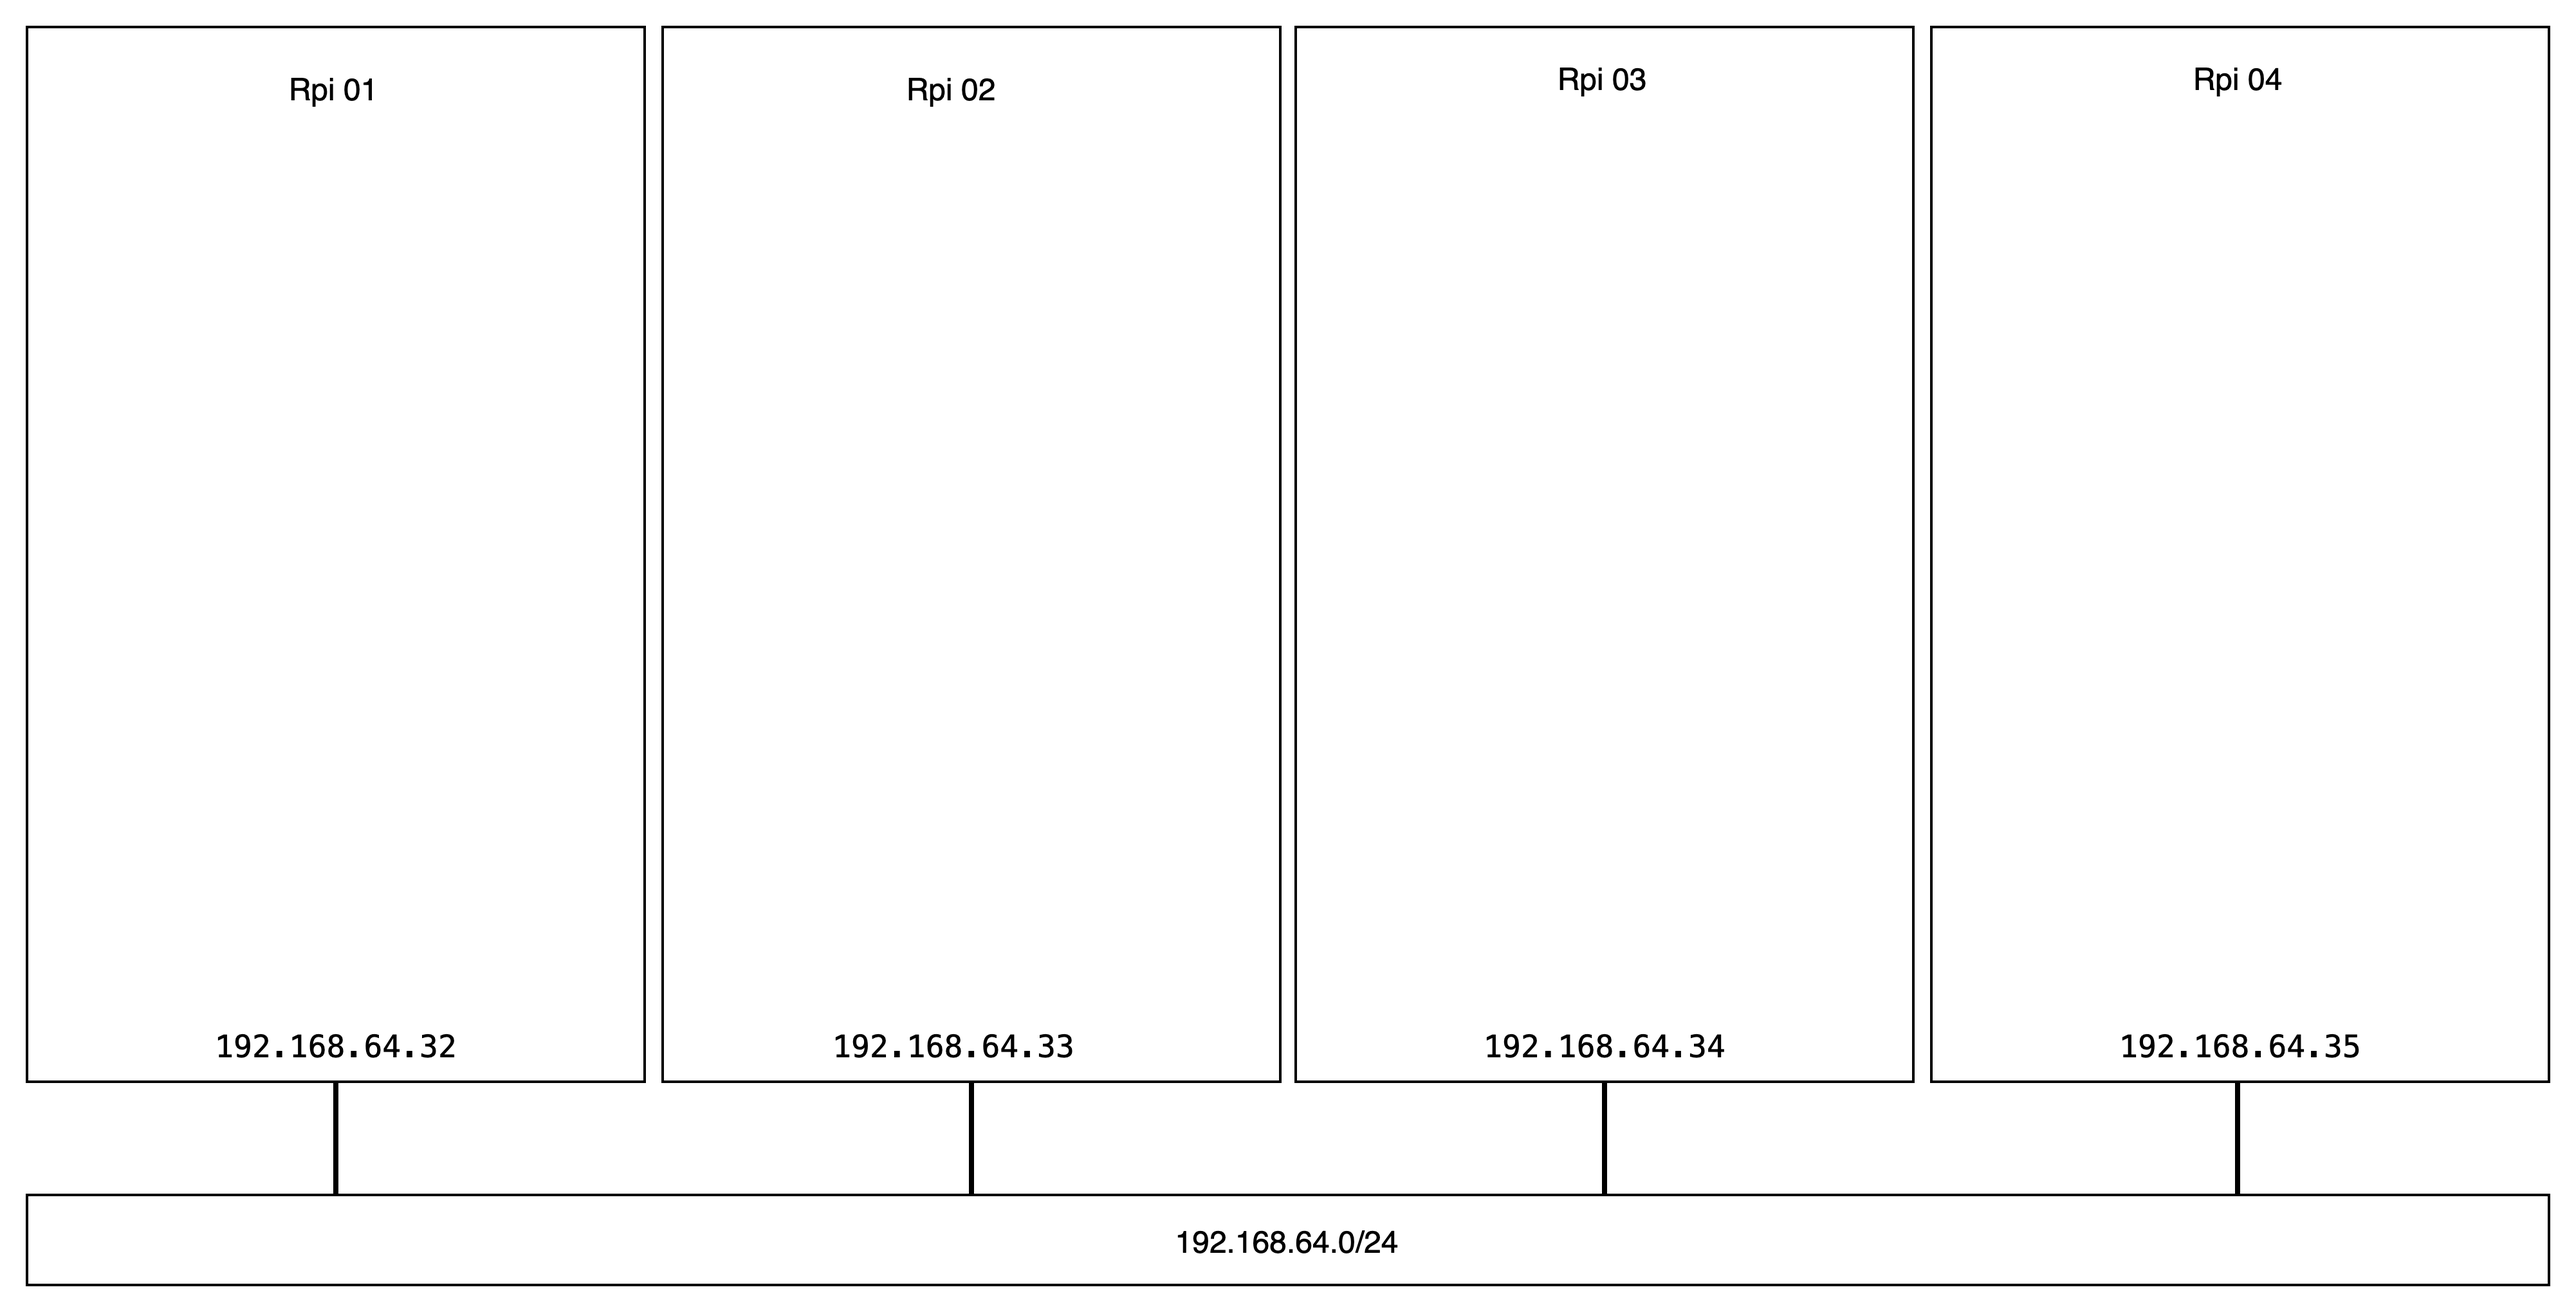
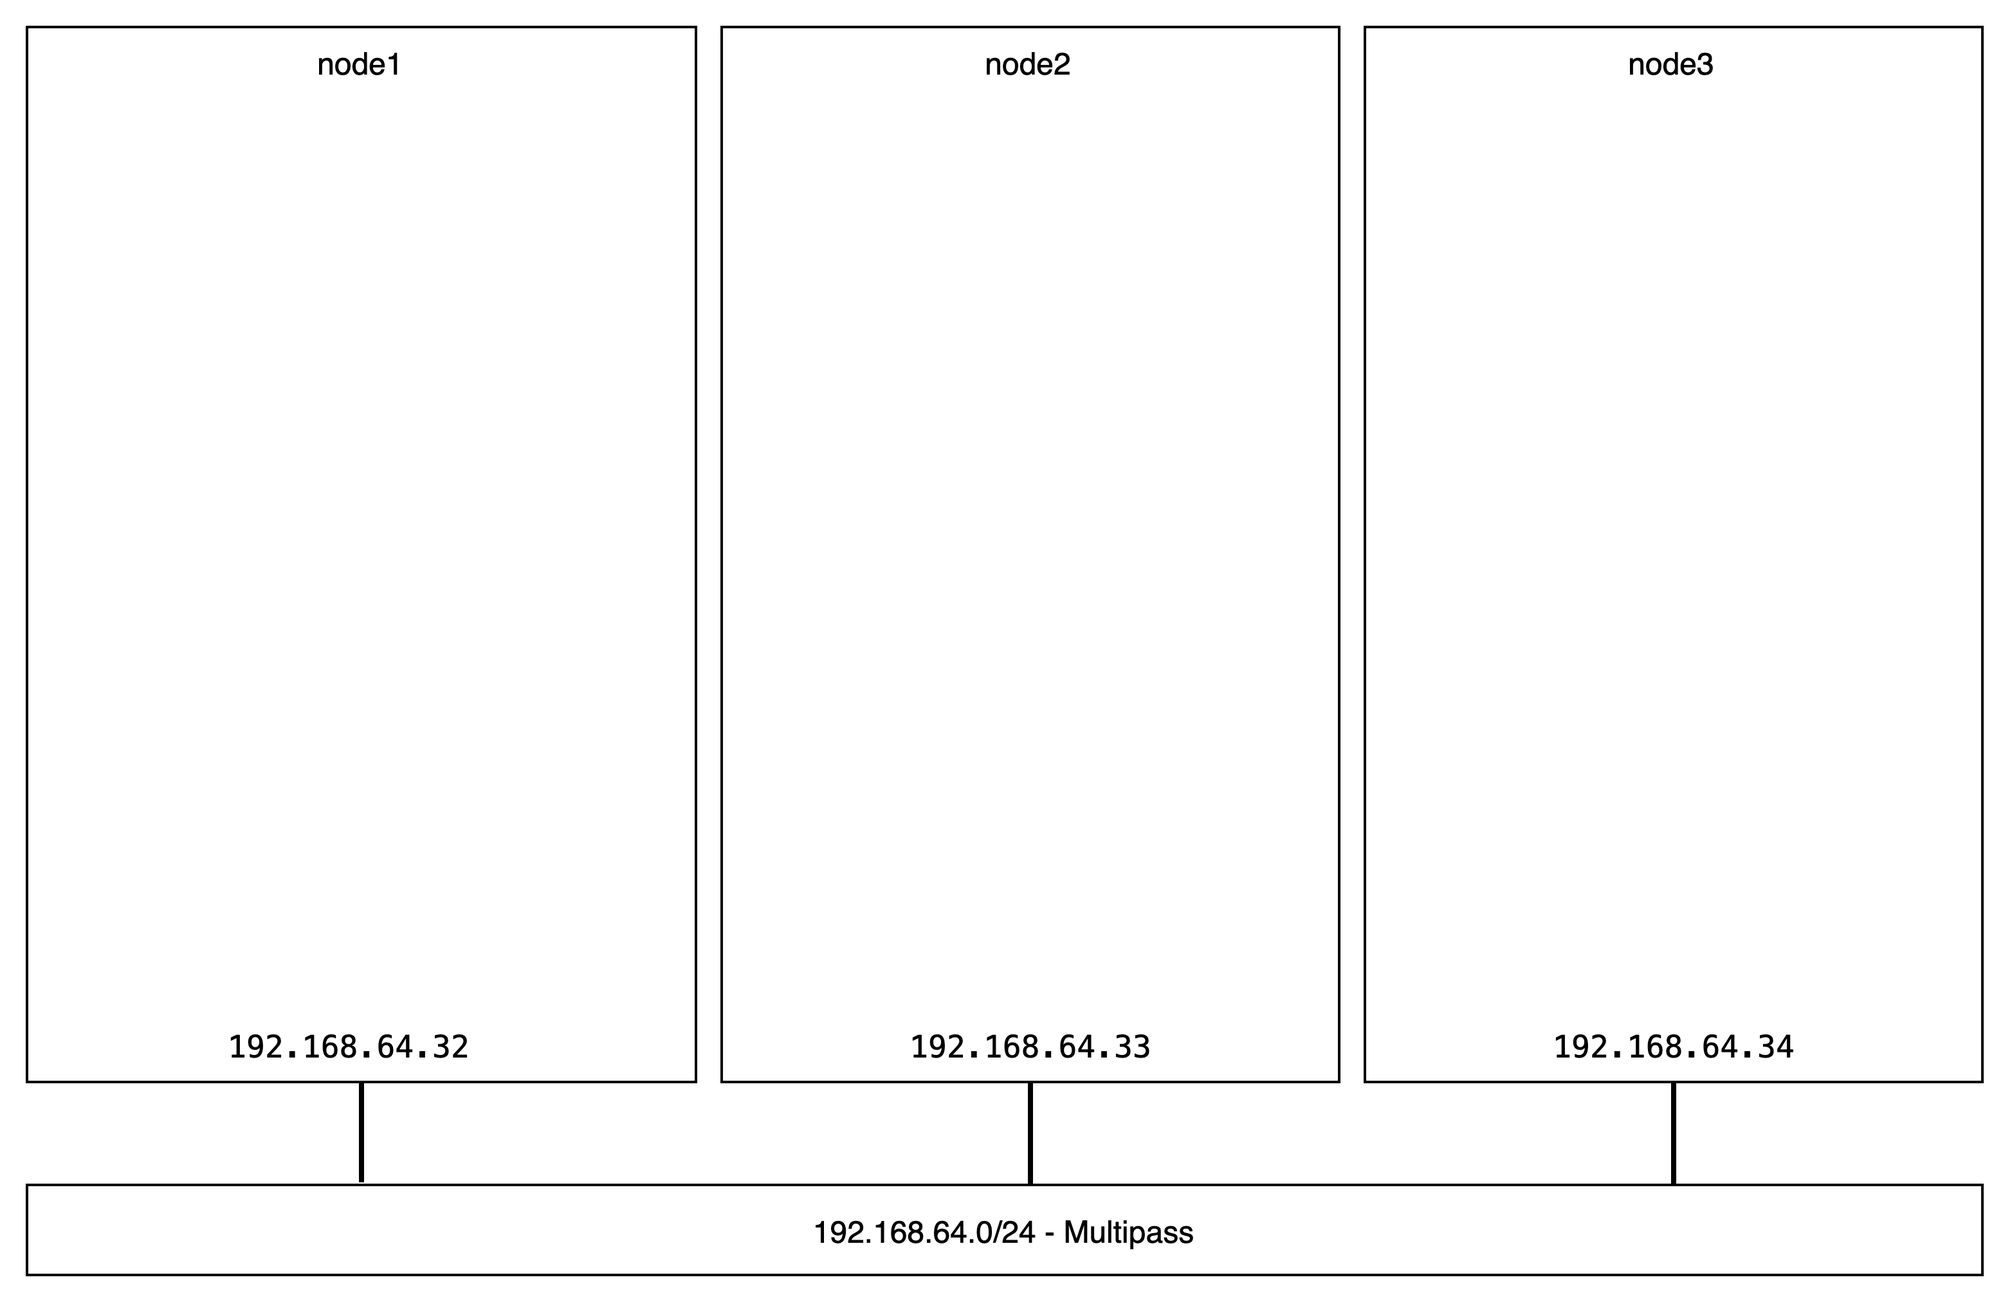
update diagrams

diff --git a/README.md b/README.md
@@ -142,7 +142,6 @@ If you are using Raspberry Pis instead, you can [follow this tutorial to install
 
 > **Checkpoint #1: Three or four Ubuntu machines on the same network.**
 
-<!-- ToDo: update diagram with 3 nodes -->
 <img alt="Four Ubuntu machines on the same network." src="./img/checkpoint-01.png" width="600" />
 
 ### #2 Register for model-driven operations
@@ -194,7 +193,6 @@ Machine  State    DNS            Inst id               Series  AZ  Message
 
 > **Checkpoint #2: Juju bare cloud with micro cloud nodes added as machines.**
 
-<!-- ToDo: update diagram with 3 bare nodes and Juju -->
 <img alt="LXD cloud registered as a Juju cloud." src="./img/checkpoint-02.png" width="600" />
 
 ### #3 Cluster the machines with LXD: your first cloud!
@@ -290,7 +288,6 @@ ubuntu@node1:~$ lxc cluster list
 +-------+----------------------------+----------+--------+-------------------+
 ```
 
-<!-- ToDo: update diagram with 3 nodes and Juju -->
 <img alt="LXD cloud registered as a Juju cloud." src="./img/checkpoint-03.png" width="600" />
 
 ### #4 Create on-demand MicroK8s clusters
